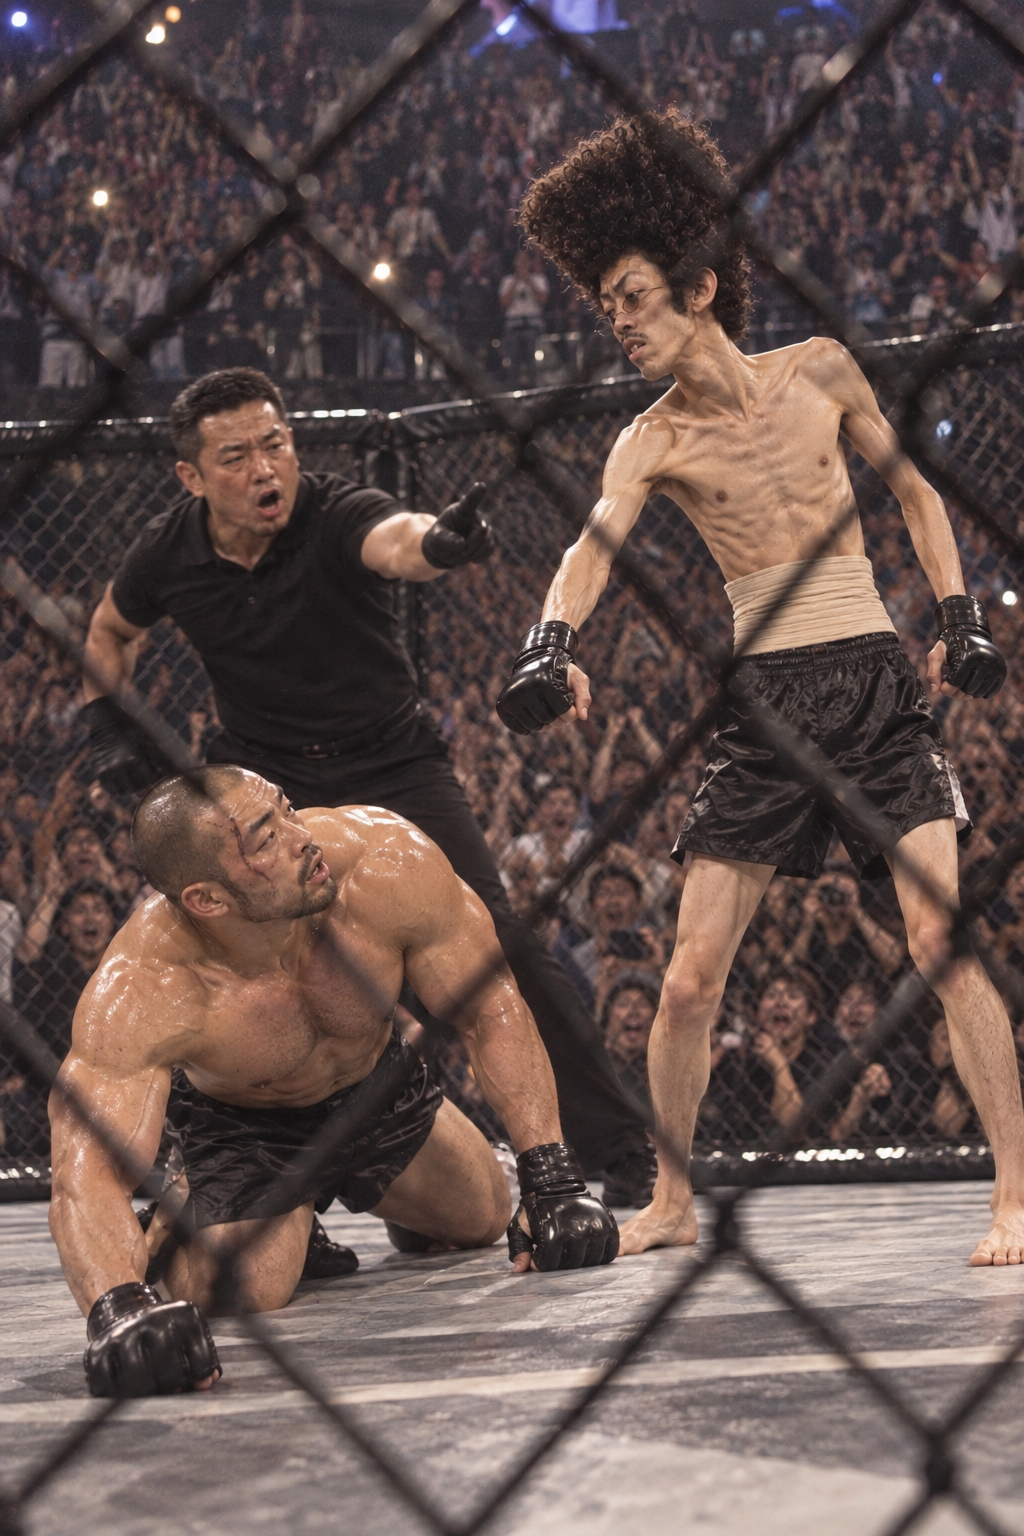
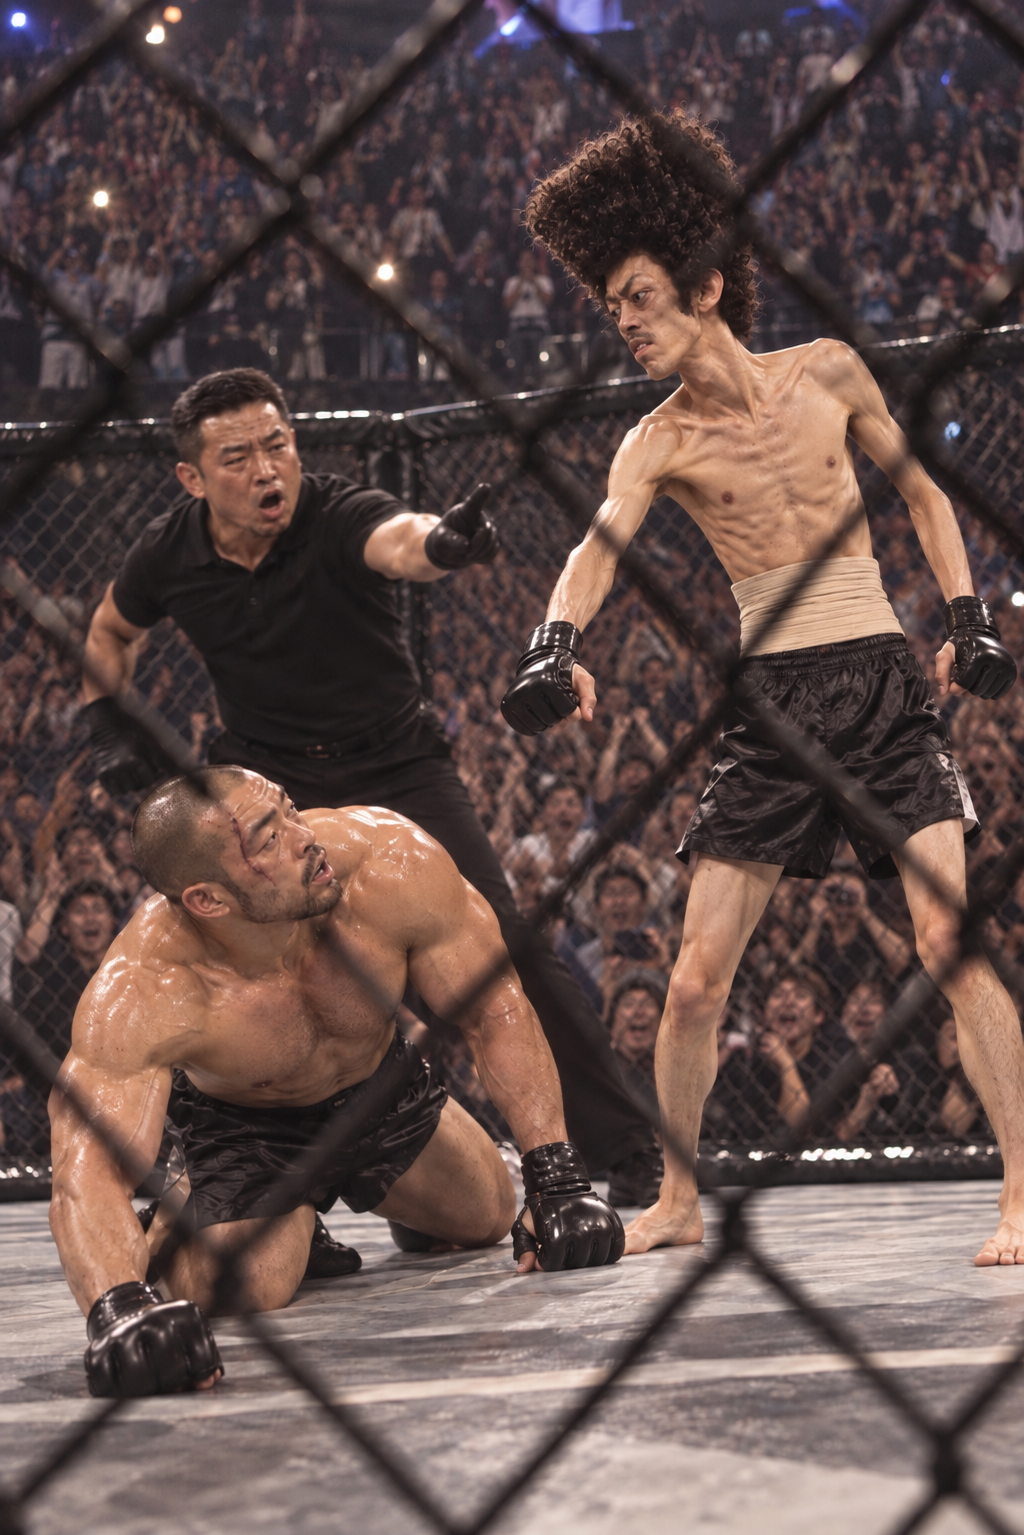
23-1 v2 (no glasses); 22-4/23-3 v2 rejected; Onizuka prompt fix
Claude-Session: https://claude.ai/code/session_01ACqrAH6aRrR2oFDk6UYPGT

diff --git a/prompts/ep19_20.md b/prompts/ep19_20.md
@@ -1,6 +1,6 @@
 # #19 龍二の挑戦状 / #20 王者・鬼塚 （衣装表と照合済み）
 
-鬼塚の固定描写：towering, extremely muscular Japanese man in his early 30s, shaved head, a long vertical scar across his RIGHT eyebrow, thick black beard stubble, cold dead eyes, expressionless
+鬼塚の固定描写：towering, muscular Japanese man in his early 30s, very short buzz-cut hair (NOT shiny bald), a long vertical scar across his RIGHT eyebrow, thick black beard stubble, cold dead eyes, expressionless
 
 - 19-1 会長室（鉄男＝白いスーツ）
 - 19-2 契約書（白いスーツ）
@@ -15,3 +15,4 @@
 - 傷は「右の眉」に統一（20-1が右眉のため）。20-3は左右反転して右眉の傷に合わせた
 - 鬼塚戦は王座戦・1分3ラウンド（判定負け）
 - 鉄男は3Rから左目（画像の右側）が腫れている。23-3以降も腫れを残す
+- 注意：bald/shaved headと書くとツルツル頭・濃いヒゲの別人になる。very short buzz-cut hair, short trimmed goatee, lean angular faceと書く
